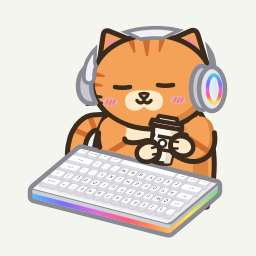
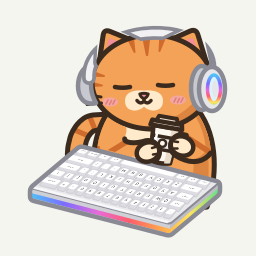
art: cat polish (forearm joins, hug arms inside the body outline, tapered head shade, chin-line nicks)

diff --git a/art/cat/_src/gen_cat.py b/art/cat/_src/gen_cat.py
@@ -13,7 +13,7 @@ from pathlib import Path
 
 from shapely import affinity
 from shapely.geometry import LineString, MultiLineString, MultiPolygon, Point, Polygon
-from shapely.ops import unary_union
+from shapely.ops import substring, unary_union
 
 OUT = Path(__file__).resolve().parent.parent
 ACC = OUT / "acc"
@@ -216,8 +216,26 @@ HEAD_STRIPES = unary_union([
 
 MUZZLE_D = ("M125 101 C125 92.5 133 89.5 144 90.5 C155 89.5 163 92.5 163 101 C163 108.5 157.5 111 152 110.5 "
             "C148.5 110 145.5 108.5 144 106.5 C142.5 108.5 139.5 110 136 110.5 C130.5 111 125 108.5 125 101Z")
-HEAD_SHADE = HEAD.difference(affinity.translate(HEAD, -6, -6)).intersection(
-    Polygon([(160, 82), (240, 60), (240, 140), (150, 140)]))
+
+
+def head_shade(t0=-30.0, t1=104.0, peak=10.0):
+    """Lower-right crescent (light from the upper left) that tapers to a point at both ends instead
+    of being cut off square: inward offset along the ellipse normal, a smooth bump from t0 to t1."""
+    outer, inner = [], []
+    n = 72
+    for k in range(n + 1):
+        u = k / n
+        th = math.radians(t0 + (t1 - t0) * u)
+        x, y = HX + (HRX + 3) * math.cos(th), HY + (HRY + 3) * math.sin(th)
+        nx, ny = math.cos(th) / HRX, math.sin(th) / HRY
+        L = math.hypot(nx, ny)
+        t = 3 + peak * math.sin(math.pi * u) ** 0.9
+        outer.append((x, y))
+        inner.append((x - nx / L * t, y - ny / L * t))
+    return Polygon(outer + inner[::-1]).buffer(0).intersection(HEAD)
+
+
+HEAD_SHADE = head_shade()
 
 
 def head_layers(eyes="content", mouth="w", perk=False):
@@ -269,10 +287,13 @@ def face(eyes, mouth):
 
 
 # ---------------------------------------------------------------- body + tail
-BODY_D = "M108 112 C91 136 89 178 99 203 Q153 216 207 207 C217 180 219 137 198 110Z"
-BODY = Polygon(cubic((108, 112), (91, 136), (89, 178), (99, 203)) + cubic((207, 207), (217, 180), (219, 137), (198, 110)))
+# the two ends run a few units on into the head (same tangent) so the stroke's closing corner stays
+# hidden under the head instead of nicking the chin outline
+BODY_D = "M113 105 L108 112 C91 136 89 178 99 203 Q153 216 207 207 C217 180 219 137 198 110 L192 102Z"
+BODY = Polygon([(113, 105)] + cubic((108, 112), (91, 136), (89, 178), (99, 203))
+               + cubic((207, 207), (217, 180), (219, 137), (198, 110)) + [(192, 102)])
 BIB_D = "M124 114 C121 138 128 160 146 168 C164 170 178 152 180 116Z"
-BODY_SHADE_D = "M197 122 C209 144 211 176 205 205 L186 205 C195 178 196 150 185 128Z"
+BODY_SHADE_D = "M199 119 C210 142 211 176 205 205 L186 205 C195 178 196 152 190 133 Q191 124 199 119Z"
 BODY_STRIPES = unary_union([
     tapered((222, 132), (199, 129), 4.2, 1.0),
     tapered((222, 150), (201, 148), 4.0, 1.0),
@@ -385,12 +406,41 @@ def paw_shape(c, rot, rx, ry, deco):
     return out
 
 
-def arm(side, curve, head_clip, r0=14.0, r1=12.0, stripe_at=(0.45,), below_kb=False):
+def trim_at_paw(edge, paw, step=0.25):
+    """A contour end that stops next to the paw (instead of running under it) leaves a nub of 5-wide
+    line and round cap poking out of the paw's 4.5 outline, worst on raised paws. Walk in from each
+    free end and drop the line while it is still in the band around the paw outline; stop once it
+    is safely under the paw fill (hidden) or clear of the band."""
+    inner, band = paw.buffer(-0.5), paw.buffer(4.75)
+    out = []
+    for ln in (edge.geoms if hasattr(edge, "geoms") else [edge]):
+        if ln.is_empty or ln.geom_type != "LineString":
+            continue
+        L = ln.length
+        a, b = 0.0, L
+        while a < b and band.contains(ln.interpolate(a)) and not inner.contains(ln.interpolate(a)):
+            a += step
+        while b > a and band.contains(ln.interpolate(b)) and not inner.contains(ln.interpolate(b)):
+            b -= step
+        if b - a > 1.0:
+            out.append(substring(ln, a, b))
+    return unary_union(out) if out else LineString()
+
+
+def arm(side, curve, head_clip, r0=14.0, r1=12.0, stripe_at=(0.45,), below_kb=False, paw=None,
+        body_zone=None):
     poly = tube(curve, r0, r1)
     sx, sy = curve[0]
     root = Point(sx, sy).buffer(r0 + 1.2)
     if head_clip is not None:
-        poly = poly.difference(head_clip.buffer(2.0))
+        # clear the whole outer half of the head outline (5 wide) so the arm never nicks the chin line
+        poly = poly.difference(head_clip.buffer(2.7))
+    inset = None
+    if body_zone is not None:
+        # near the shoulder the arm stays inside the body silhouette, so it never covers the body's
+        # own outline and the shoulder doesn't read as a pasted-on, unoutlined hump
+        inset = BODY.buffer(-2.5)
+        poly = poly.difference(body_zone.difference(inset))
     if below_kb:
         # hug/sip arms melt into the body above the keyboard's back edge, never over the keys
         poly = poly.difference(Polygon([(0, 146 + 0.257 * -80 - 3), (256, 146 + 0.257 * 176 - 3), (256, 256), (0, 256)]))
@@ -407,14 +457,32 @@ def arm(side, curve, head_clip, r0=14.0, r1=12.0, stripe_at=(0.45,), below_kb=Fa
         stripes.append(LineString([(cx - nx * 16 + dx / L * 3, cy - ny * 16 + dy / L * 3),
                                    (cx + nx * 16 - dx / L * 1, cy + ny * 16 - dy / L * 1)]).buffer(2.8))
     stripe = unary_union(stripes).intersection(poly) if stripes else Polygon()
-    shade = poly.difference(affinity.translate(poly, -5, -2))
-    if side == "L":
-        shade = shade.intersection(Point(curve[-1]).buffer(16))
+    # the shade overhangs the arm fill by a hair so the two anti-aliased edges don't leave a light
+    # seam where the arm's flank meets the body shade (no outline covers it at the shoulder)
+    shade = poly.buffer(0.7).difference(affinity.translate(poly, -5, -2))
+    if head_clip is not None:
+        shade = shade.difference(head_clip.buffer(2.7))
+    if inset is not None:
+        shade = shade.intersection(inset)
+    if below_kb:
+        shade = shade.intersection(poly.buffer(0.7, join_style="mitre").difference(
+            Polygon([(0, 146 + 0.257 * -80 - 3), (256, 146 + 0.257 * 176 - 3), (256, 256), (0, 256)])))
     edge = poly.boundary.difference(root)
     if below_kb:
         edge = edge.difference(Polygon([(0, 146 + 0.257 * -80 - 4), (256, 146 + 0.257 * 176 - 4), (256, 256), (0, 256)]))
     if head_clip is not None:
         edge = edge.difference(head_clip.buffer(3.4))
+    if inset is not None:
+        # the clipped side follows the body outline; don't draw a second line along it
+        edge = edge.difference(inset.exterior.buffer(0.6).intersection(body_zone.buffer(1)))
+        parts = edge.geoms if hasattr(edge, "geoms") else [edge]
+        edge = unary_union([ln for ln in parts if ln.length >= 7])
+    if paw is not None:
+        edge = trim_at_paw(edge, paw)
+    if side == "L":
+        shade = shade.intersection(Point(curve[-1]).buffer(16))
+        # keep the shade against a drawn contour; an unoutlined shade wedge reads as a stray patch
+        shade = shade.intersection(edge.buffer(6.5)) if not edge.is_empty else Polygon()
     d = poly_d(poly)
     return [fill(d, MAIN), fill(poly_d(shade), SHADE), fill(poly_d(stripe), DARK), stroke(line_d(edge), 5)]
 
@@ -424,7 +492,7 @@ def paws_layer(lstate, rstate, sleeping=False):
     out = []
     for side, st in (("L", lstate), ("R", rstate)):
         c, rot, rx, ry, deco = paw_state(st, side)
-        out += arm(side, arm_curve(side, c), head)
+        out += arm(side, arm_curve(side, c), head, paw=ellipse_poly(*c, rx, ry, rot))
     for side, st in (("L", lstate), ("R", rstate)):
         c, rot, rx, ry, deco = paw_state(st, side)
         out += paw_shape(c, rot, rx, ry, deco)
@@ -441,8 +509,11 @@ def hug_paws(kind):
         rl, rr = -30, 15
         clip = None
     out = []
-    out += arm("L", arm_curve("L", pl, kind), clip, 13.5, 11.5, stripe_at=(0.4,), below_kb=True)
-    out += arm("R", arm_curve("R", pr, kind), clip, 13.5, 11.5, stripe_at=(0.4,), below_kb=True)
+    for side, p in (("L", pl), ("R", pr)):
+        cur = arm_curve(side, p, kind)
+        # the hugging arms tuck inside the body outline (elbows follow the body's contour)
+        zone = Polygon([(0, 0), (256, 0), (256, 256), (0, 256)])
+        out += arm(side, cur, clip, 13.5, 11.5, stripe_at=(0.4,), below_kb=True, body_zone=zone)
     for c, rot in ((pl, rl), (pr, rr)):
         cx, cy = c
         out.append(f'<ellipse cx="{cx}" cy="{cy}" rx="11.5" ry="9.5" transform="rotate({rot} {cx} {cy})" '
